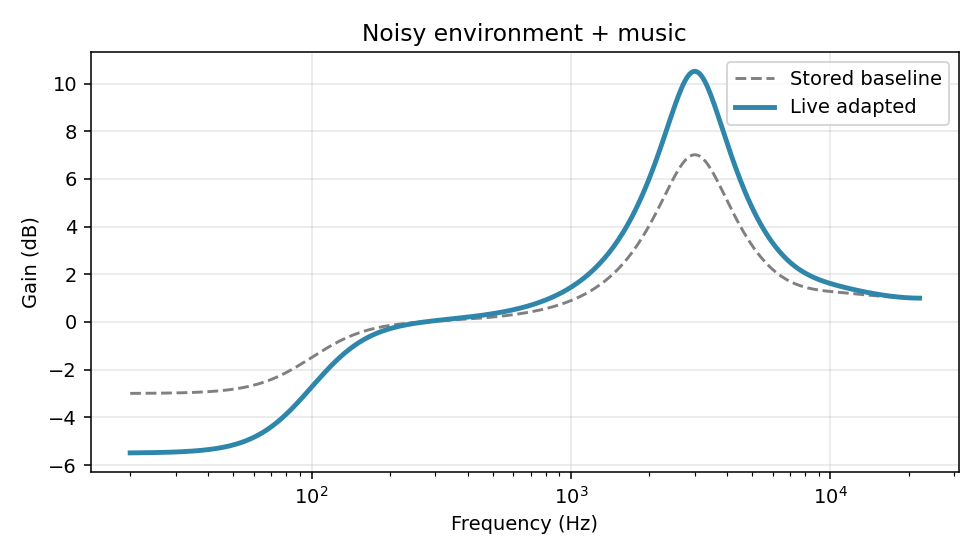
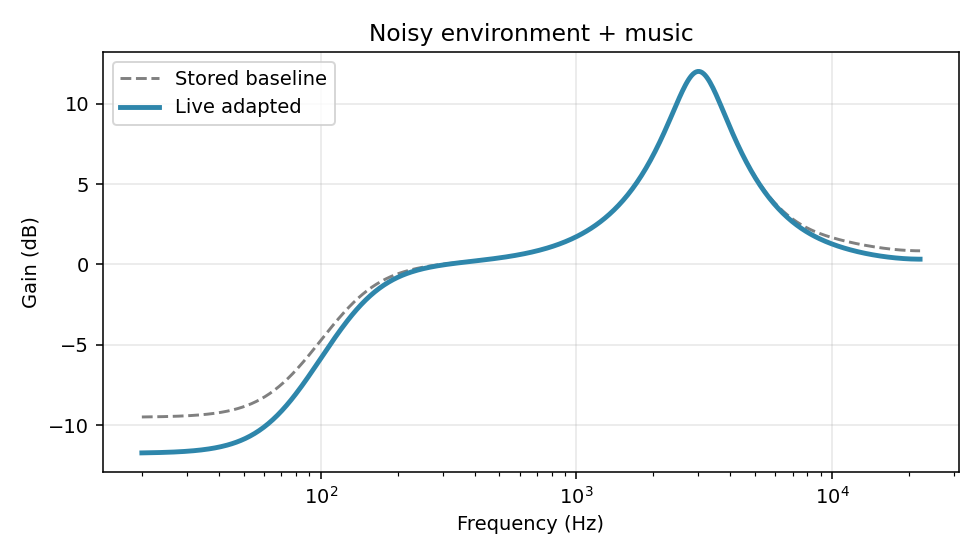
App: surface local ML genre detection in the dashboard
New 'Genre model (local ML)' picker and a 'Detected genre' panel with
a confidence bar chart, shown when the Genre agent produces a
prediction. Validation traces now also report the detected genre.

diff --git a/app.py b/app.py
@@ -26,6 +26,7 @@ from dsp.equalizer_spec import EqualizerSpec, all_specs, save_spec
 from perception.eq_app_reader import read_equalizer_screenshot
 from perception.context_classifier import classify, Context
 from perception.synth_scenarios import synth_scenario, SCENARIOS as SCENARIO_LABELS, SCENARIO_CONTENT_TYPE
+from perception import genre_classifier
 from data.db import ProfileStore
 from agents.graph import run_pipeline
 
@@ -189,6 +190,20 @@ with col_left:
         placeholder="e.g. make voices clearer, less bass",
     )
 
+    if genre_classifier.available():
+        model_options = ["auto (best)"] + genre_classifier.list_models()
+        genre_model_choice = st.selectbox(
+            "Genre model (local ML)", model_options,
+            help="For music content, locally classifies the genre/mood into "
+                 "one of 8 buckets and leans the EQ curve accordingly. "
+                 "Trained on the 114k-track Spotify dataset -- see ml/README.md.",
+        )
+        genre_model_name = "auto" if genre_model_choice.startswith("auto") else genre_model_choice
+    else:
+        genre_model_name = "auto"
+        st.caption("No trained genre model found — run `python ml/train.py` "
+                   "once to enable local ML genre-aware EQ tuning.")
+
     st.divider()
     eq_spec = eq_spec_picker()
 
@@ -213,7 +228,8 @@ with col_right:
 
         with st.spinner("Running perception → agents → DSP…"):
             result = run_pipeline(store, eq, USER_ID, ctx, user_command,
-                                  equalizer_spec=eq_spec)
+                                  equalizer_spec=eq_spec, content_audio=content,
+                                  sample_rate=SR, genre_model=genre_model_name)
 
         st.subheader("Detected context")
         c1, c2, c3 = st.columns(3)
@@ -222,6 +238,18 @@ with col_right:
         c3.metric("Ambient level", f"{ctx.ambient_rms_db} dB")
 
         proj = result.get("projected_eq")
+
+        if result.get("genre_bucket"):
+            st.subheader("Detected genre (local ML model)")
+            g1, g2, g3 = st.columns(3)
+            g1.metric("Genre bucket", result["genre_bucket"].replace("_", " / "))
+            g2.metric("Confidence", f"{result.get('genre_confidence', 0) * 100:.0f}%")
+            g3.metric("Model used", result.get("genre_model_used", "-"))
+            probs = result.get("genre_probabilities") or {}
+            if probs:
+                st.bar_chart(dict(sorted(probs.items(), key=lambda kv: -kv[1])))
+        elif result.get("genre_unavailable_reason"):
+            st.caption(f"Genre model unavailable: {result['genre_unavailable_reason']}")
 
         st.subheader("Live EQ curve")
         freqs_before, mag_before = eq.frequency_response(result["baseline_curve"])
@@ -270,6 +298,8 @@ with col_right:
             dbg = {
                 "context_deltas": result["context_deltas"],
                 "command_deltas": result["command_deltas"],
+                "genre_deltas": result.get("genre_deltas"),
+                "genre_proxy_features": result.get("genre_proxy_features"),
                 "decided_curve": result["decided_curve"].to_dict(),
             }
             if proj is not None:

diff --git a/validation/generate_traces.py b/validation/generate_traces.py
@@ -44,7 +44,8 @@ def main():
     for key, label in SCENARIOS:
         ambient, content = synth_scenario(key, SR)
         ctx = classify(ambient, content, SR, content_type_hint=SCENARIO_CONTENT_TYPE[key])
-        result = run_pipeline(store, eq, user_id="validation_user", context=ctx, user_command="")
+        result = run_pipeline(store, eq, user_id="validation_user", context=ctx, user_command="",
+                              content_audio=content, sample_rate=SR)
 
         freqs, mag_before = eq.frequency_response(result["baseline_curve"])
         _, mag_after = eq.frequency_response(result["decided_curve"])
@@ -67,6 +68,9 @@ def main():
         report_lines.append(f"- Detected: noise=`{ctx.noise_level}`, content=`{ctx.content_type}`, "
                              f"ambient={ctx.ambient_rms_db} dB")
         report_lines.append(f"- Deltas: {deltas}")
+        if result.get("genre_bucket"):
+            report_lines.append(f"- Genre (local ML, {result.get('genre_model_used')}): "
+                                 f"`{result['genre_bucket']}` ({result.get('genre_confidence', 0) * 100:.0f}% confidence)")
         report_lines.append(f"- Explanation: \"{result['explanation']}\"")
         report_lines.append(f"- Curve plot: `{fig_path.name}`\n")
 

diff --git a/validation/output/report.md b/validation/output/report.md
@@ -8,8 +8,9 @@
 
 ## Noisy environment + music
 - Detected: noise=`noisy`, content=`music`, ambient=-21.9 dB
-- Deltas: {'volume_db': 0.0, 'bass_gain_db': -2.5, 'presence_gain_db': 3.5, 'treble_gain_db': 0.0}
-- Explanation: "Because of a noisy environment during music, I boosted vocal clarity by 3.5 dB, pulled bass back 2.5 dB."
+- Deltas: {'volume_db': 0.0, 'bass_gain_db': -2.24, 'presence_gain_db': 0.0, 'treble_gain_db': -0.52}
+- Genre (local ML, gradient_boosting): `chill_ambient` (74% confidence)
+- Explanation: "Because of a noisy environment during music, I pulled bass back 2.2 dB, warmed treble by 0.5 dB. Sounds like chill/ambient (74% confidence, local gradient_boosting model), so I leaned the curve that way."
 - Curve plot: `noisy_music.png`
 
 ## Home + movie
